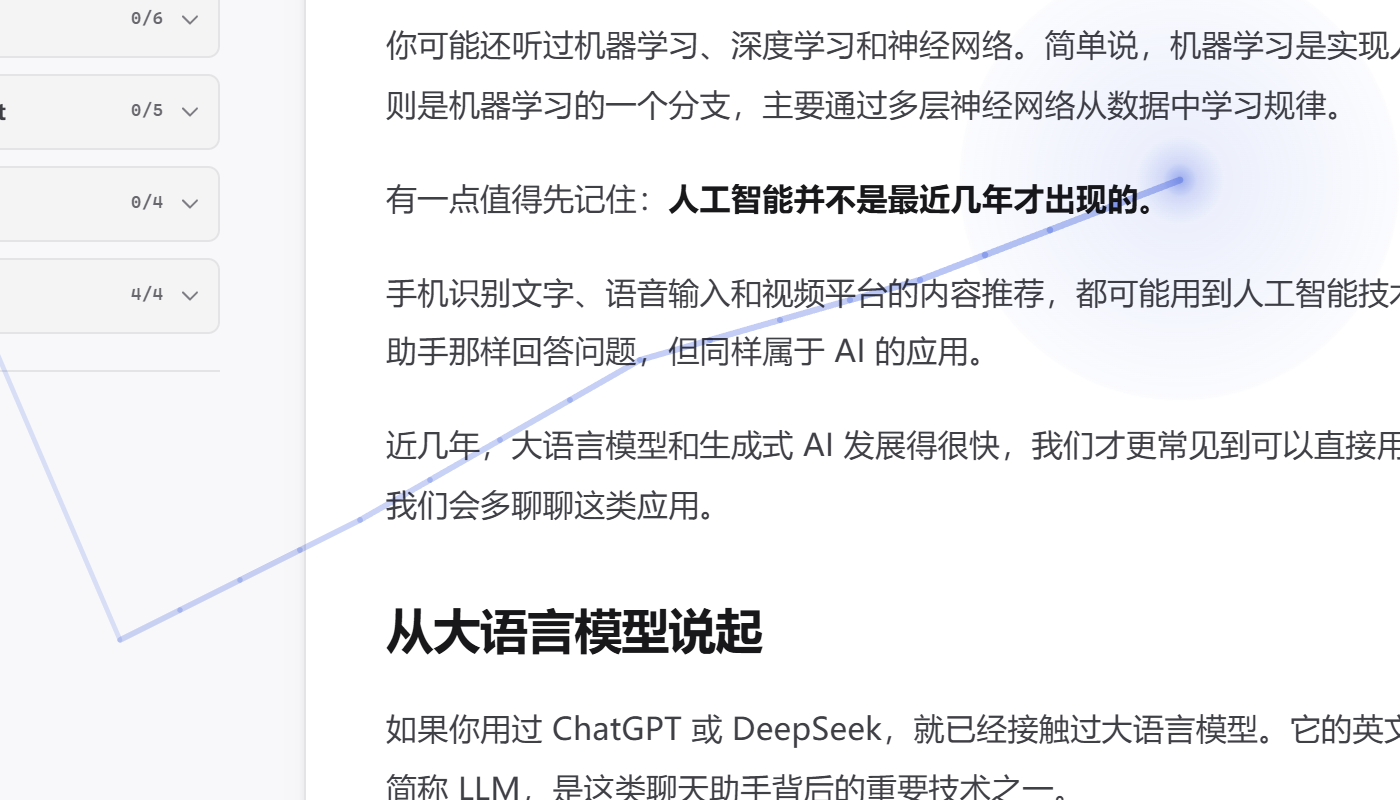
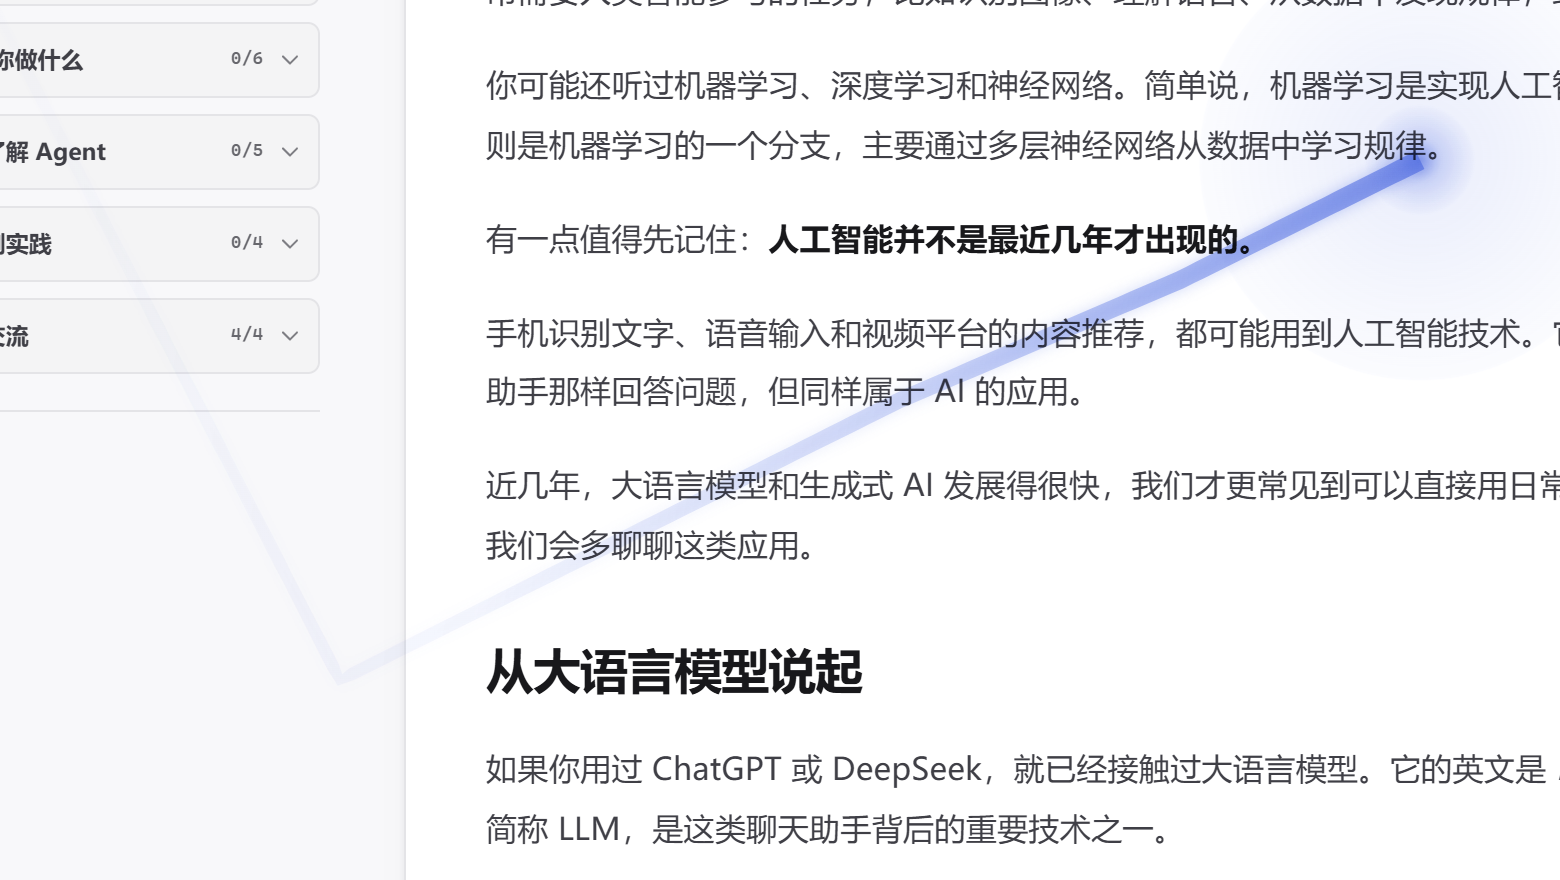
feat(glow): 拖尾加长加粗，改成渐变宽带加外发光
按反馈「长拖尾，太细了」调整：
- 存活 420ms → 780ms，采样上限 64 → 160，按约 8px 插值补点，快扫不再是一串珠子
- 逐段描线改成一次性 fill 的渐变宽带：尾部约 1px、头部约 11.6px
- 宽带下面再糊一层 7px 模糊当外发光，深色主题浓度乘 1.3
- 截图与文档参数同步更新；verify 49 项与 59/59 browser 全过

diff --git a/src/scripts/cursor-trail.ts b/src/scripts/cursor-trail.ts
@@ -15,12 +15,12 @@ import { trailEnabled, TRAIL_CHANGE } from './glow-pref';
 
 type Point = { x: number; y: number; t: number };
 
-/** 尾迹存活时间（ms） */
-const AGE = 420;
+/** 尾迹存活时间（ms）：拖得越长，划过之后那条「流星」留得越久 */
+const AGE = 780;
 /** 采样上限，避免长距离甩动时点数无限增长 */
-const MAX_POINTS = 64;
+const MAX_POINTS = 160;
 /** 小于这个距离的移动只更新头部时间，不新增采样点 */
-const MIN_STEP = 1.5;
+const MIN_STEP = 1.2;
 
 const canvas = document.querySelector<HTMLCanvasElement>('[data-cursor-trail]');
 if (canvas) {
@@ -73,34 +73,76 @@ if (canvas) {
 
     ctx.clearRect(0, 0, width, height);
     const rgb = tint();
-    ctx.lineCap = 'round';
-    ctx.lineJoin = 'round';
 
-    // 尾迹：越靠近头部越亮、越粗，越靠尾部越淡、越细
-    for (let i = 1; i < points.length; i++) {
-      const from = points[i - 1];
-      const to = points[i];
-      const life = 1 - (now - to.t) / AGE;
-      if (life <= 0) continue;
-      const alpha = Math.pow(life, 1.6) * 0.62;
-      ctx.strokeStyle = 'rgba(' + rgb + ', ' + alpha.toFixed(3) + ')';
-      ctx.lineWidth = 0.9 + 3.1 * life;
+    // 尾迹画成一条「渐变宽度的带」，而不是逐段描线：
+    // 逐段 stroke 时相邻线段的圆头会互相叠加，尾巴上会出现一串珠子；
+    // 一次 fill 出来的带子才是连续、平滑、越靠近头越粗的流星。
+    const life = (index: number): number => {
+      const point = points[index];
+      return Math.max(0, 1 - (now - point.t) / AGE);
+    };
+    const halfWidth = (index: number): number => (1 + 10.6 * Math.pow(life(index), 1.6)) / 2;
+
+    if (points.length > 1) {
+      const left: Point[] = [];
+      const right: Point[] = [];
+      for (let i = 0; i < points.length; i++) {
+        const prev = points[Math.max(0, i - 1)];
+        const next = points[Math.min(points.length - 1, i + 1)];
+        const dx = next.x - prev.x;
+        const dy = next.y - prev.y;
+        const length = Math.hypot(dx, dy) || 1;
+        // 法线方向：把宽度摊在轨迹两侧
+        const nx = (-dy / length) * halfWidth(i);
+        const ny = (dx / length) * halfWidth(i);
+        left.push({ x: points[i].x + nx, y: points[i].y + ny, t: points[i].t });
+        right.push({ x: points[i].x - nx, y: points[i].y - ny, t: points[i].t });
+      }
+
+      const tail = points[0];
+      const head = points[points.length - 1];
+      const ribbon = ctx.createLinearGradient(tail.x, tail.y, head.x, head.y);
+      // 尾巴彻底透明、越靠头越实：远看只有后半截亮着，才像一颗掠过的流星。
+      // 深色底上 screen 混合看起来会淡一档，浓度乘 1.3 补回来。
+      const strength = root.dataset.theme === 'dark' ? 1.3 : 1;
+      const stop = (at: number, alpha: number): void => {
+        ribbon.addColorStop(at, 'rgba(' + rgb + ', ' + (alpha * strength).toFixed(3) + ')');
+      };
+      stop(0, 0);
+      stop(0.45, 0.05);
+      stop(0.7, 0.24);
+      stop(0.88, 0.46);
+      stop(1, 0.62);
+
       ctx.beginPath();
-      ctx.moveTo(from.x, from.y);
-      ctx.lineTo(to.x, to.y);
-      ctx.stroke();
+      ctx.moveTo(left[0].x, left[0].y);
+      for (let i = 1; i < left.length; i++) ctx.lineTo(left[i].x, left[i].y);
+      for (let i = right.length - 1; i >= 0; i--) ctx.lineTo(right[i].x, right[i].y);
+      ctx.closePath();
+
+      // 先糊一层同样的形状当外发光，再叠清晰的那一条：
+      // 单靠一条实心带子会读成「画上去的线」，外面有一圈晕才像光
+      ctx.save();
+      ctx.filter = 'blur(7px)';
+      ctx.globalAlpha = 0.6;
+      ctx.fillStyle = ribbon;
+      ctx.fill();
+      ctx.restore();
+
+      ctx.fillStyle = ribbon;
+      ctx.fill();
     }
 
     // 头部亮核：一小团径向光，让尾迹有个「星」的头
     const head = points[points.length - 1];
     const headLife = Math.max(0, 1 - (now - head.t) / AGE);
-    const core = ctx.createRadialGradient(head.x, head.y, 0, head.x, head.y, 22);
-    core.addColorStop(0, 'rgba(' + rgb + ', ' + (0.62 * headLife).toFixed(3) + ')');
-    core.addColorStop(0.4, 'rgba(' + rgb + ', ' + (0.2 * headLife).toFixed(3) + ')');
+    const core = ctx.createRadialGradient(head.x, head.y, 0, head.x, head.y, 28);
+    core.addColorStop(0, 'rgba(' + rgb + ', ' + (0.66 * headLife).toFixed(3) + ')');
+    core.addColorStop(0.38, 'rgba(' + rgb + ', ' + (0.24 * headLife).toFixed(3) + ')');
     core.addColorStop(1, 'rgba(' + rgb + ', 0)');
     ctx.fillStyle = core;
     ctx.beginPath();
-    ctx.arc(head.x, head.y, 22, 0, Math.PI * 2);
+    ctx.arc(head.x, head.y, 28, 0, Math.PI * 2);
     ctx.fill();
 
     canvas.dataset.active = 'true';
@@ -121,11 +163,28 @@ if (canvas) {
       if (event.pointerType !== 'mouse' || !enabled()) return;
       const now = performance.now();
       const last = points[points.length - 1];
-      if (last && Math.hypot(event.clientX - last.x, event.clientY - last.y) < MIN_STEP) {
-        last.t = now;
-      } else {
+      if (!last) {
         points.push({ x: event.clientX, y: event.clientY, t: now });
-        if (points.length > MAX_POINTS) points.shift();
+      } else {
+        const dx = event.clientX - last.x;
+        const dy = event.clientY - last.y;
+        const distance = Math.hypot(dx, dy);
+        if (distance < MIN_STEP) {
+          last.t = now;
+        } else {
+          // 浏览器给的是离散采样：一步跨得太远就直接连线会看到一串「珠子」。
+          // 按约 8px 一段插值补点，尾迹才是一条连续、渐细的流星。
+          const steps = Math.min(24, Math.max(1, Math.ceil(distance / 8)));
+          for (let i = 1; i <= steps; i++) {
+            const ratio = i / steps;
+            points.push({
+              x: last.x + dx * ratio,
+              y: last.y + dy * ratio,
+              t: now - (steps - i) * 4,
+            });
+          }
+          if (points.length > MAX_POINTS) points.splice(0, points.length - MAX_POINTS);
+        }
       }
       schedule();
     },

diff --git a/docs/DESIGN-SYSTEM.md b/docs/DESIGN-SYSTEM.md
@@ -174,8 +174,8 @@
 | 首页引导图节点光效汇聚 | 与顶部导航同一套配方（共用 `hover-glow.css` 的 `--glow-tint` 与 `.hover-glow`），但按卡片形状改用 inset 变体：光只在卡片内部铺开（宽 38% 的椭圆，指向指针所在的一侧），不外溢成胶囊，同时把卡片描边软化、加一层浅蓝投影；离开卡片即熄灭并交还全站光晕；减少动效与触屏下不启用 |
 | 页头控件与站内按钮光效汇聚 | 搜索框、主题键、GitHub 键、首屏「开始学习」，以及站内同类控件（正文 `.btn` 整排按钮、筛选片、清除筛选、复制键、场景换卡、对话框关闭键、主题面板控件、侧栏搜索框、工具卡 / 术语卡 / 侧栏分支行、学习指南侧栏的分组标题与条目）共用同一束光：光铺在控件自身的圆角内（inset 变体，宽 38%），亮心跟着指针左右移动，外部再溢出一圈柔光；亮起时撤掉全站光晕，键盘 Tab 到控件上同样点亮（亮心居中），同时只亮一枚。除页头这几枚手写标记外，其余由 `ui-glow.ts` 按选择器自动接管，新增按钮不用再写一遍光层标记。品牌色实心底（主按钮、按下态的筛选片）改用掺白掠光并锁住 hover 底色，否则深蓝底上的淡蓝只会读成「按钮变深」；取色色块（会盖掉正在看的颜色）、正文里的步骤与测验选项（属于内容而非行动入口）、导航链接（已由 nav-glow 负责）刻意不给光。列表卡片是一团跟着指针走的柔光晕（132px 半径的圆 + 8px 模糊，中心跟着指针的横纵坐标，边缘完全淡出），只有指着的那一片亮，同时把这张卡的描边接力点亮成品牌蓝并带一点外发光；侧栏搜索框的输入框自带底色，光层必须抬到输入框之上（`z-index: 1`）并把浓度压到通用 inset 的一半，否则光被挡住、或者反面把整条输入框染蓝；减少动效与触屏下不启用 |
 | 鼠标光效总开关 | 主题面板底部一行「鼠标光效」（原生按钮 + `role="switch"`，轨道开态用 `--brand` 实底、关态用中性灰，140ms 过渡，减少动效下不过渡）。关掉后四条光效链路一起停：全站指针光晕、顶部导航光效汇聚、页头控件与站内按钮 / 搜索框 / 列表卡片、首页 Hero 点阵光；dock 放大这类非光效动效保留。偏好存 `localStorage['cdu-ai-glow']`，首屏由 BaseLayout 的内联脚本先写 `<html data-glow>`，刷新后不会先闪一下光 |
-| 光效拖尾（流星尾迹） | 指针划过时，最近 420ms 的轨迹连成一条由细到粗、由淡到亮的蓝色流星：尾迹按时间衰减，头部再叠一颗 22px 的径向亮核；指针停下后尾迹自然淡完，帧循环随之停下，空闲时不占 CPU。浅色主题 `multiply`、深色主题 `screen`；整站只有一张全屏 canvas，不拦截事件、不改光标；触屏、减少动效、打印与开关关闭时整层 `display: none` |
-| 光效拖尾开关 | 与「鼠标光效」并排放在主题面板底部（同一个开关组：上面「跟随指针的柔光」，下面「指针划过的流星尾迹」）。偏好独立存 `localStorage['cdu-ai-trail']`，首屏由 BaseLayout 的内联脚本写 `<html data-trail>`；两个开关互不牵连——关掉光晕仍可只留尾迹，反之亦然。拖尾参数（存活 420ms、采样上限 64、最小步长 1.5px）在 `cursor-trail.ts` |
+| 光效拖尾（流星尾迹） | 指针划过时，最近 780ms 的轨迹连成一条由细到粗、由淡到亮的蓝色流星：尾迹画成一条「渐变宽度的带」（尾部约 1px、头部约 11.6px，外面再糊一层 7px 模糊当外发光），越靠头越亮，头部再叠一颗 28px 的径向亮核；相邻采样点按约 8px 插值补点，避免大手一挥时出现一串珠子。指针停下后尾迹自然淡完，帧循环随之停下，空闲时不占 CPU。浅色主题 `multiply`（深色再乘 1.3 浓度）、深色主题 `screen`；整站只有一张全屏 canvas，不拦截事件、不改光标；触屏、减少动效、打印与开关关闭时整层 `display: none` |
+| 光效拖尾开关 | 与「鼠标光效」并排放在主题面板底部（同一个开关组：上面「跟随指针的柔光」，下面「指针划过的流星尾迹」）。偏好独立存 `localStorage['cdu-ai-trail']`，首屏由 BaseLayout 的内联脚本写 `<html data-trail>`；两个开关互不牵连——关掉光晕仍可只留尾迹，反之亦然。拖尾参数（存活 780ms、采样上限 160、最小步长 1.2px、插值间距 8px）在 `cursor-trail.ts` |
 | 首页应用叠卡 | 手动换卡时过渡位置与角度，不自动轮播；减少动效下关闭过渡与前卡倾斜，仍可用按钮换卡 |
 | 首页探索菜单 | 悬停 / 聚焦时按上下边缘揭开横幅并横向流动；触屏、减少动效和无 JS 保持静态链接 |
 | 首页图书馆线稿 | 原生 SVG 坐标重投影，拖动与入口联动使用有限时长过渡。减少动效时直接更新姿态，线条颜色跟随主题 |

diff --git a/docs/DESIGN-REVIEW.md b/docs/DESIGN-REVIEW.md
@@ -328,7 +328,8 @@
 - 反馈：「修复失效的光效，同时加入光效拖尾功能，像流星一样，再单独设置一个开关和光效开关放一起」。
 - 先查「失效」：把同一套悬停探针跑遍 `/`、`/guide/`、`/guide/first-agent/`、`/glossary/`、`/tools/`、`/works/`。四条老链路（指针光晕 / 导航汇聚 / 按钮与卡片 / Hero 点阵）都还在；真正缺光的是上游这轮重构新长出来的入口——指南页头的「建议修改」、图片灯箱的缩放与关闭键（`.image-lightbox__btn`）、图片上的「点击放大」（`.guide-image-zoom`）、手机工具详情抽屉的关闭键（`.tool-sheet__close`）、术语侧栏的分支展开收起键（`.branch-row__toggle`）。这五个选择器进 `ui-glow.ts` 的 `AUTO_HOSTS` 就补齐了，页头那几枚仍然手写标记。
 - 灯箱相关的三个只在正文真的有 `<img>` 时才生成：当前内容还没有配图，所以测试只断言既有控件是否接光；灯箱与「点击放大」交给 `ui-glow` 的 MutationObserver（对话框和按钮都是后挂到 body 的），有图之后自动接线。
-- 拖尾实现：新增 `CursorTrail.astro` + `scripts/cursor-trail.ts` + `styles/cursor-trail.css`，一张 `position: fixed` 的全屏 canvas。采样点保留 420ms（上限 64 个；间距 <1.5px 只更新头部时间），每帧从旧到新画渐细渐亮的圆头线段（宽度 0.9→4px，透明度 `life^1.6 × 0.62`），头部再叠一颗 22px 的径向亮核；采样点全过期后擦掉画布并停掉 rAF，空闲时零开销。
+- 拖尾实现：新增 `CursorTrail.astro` + `scripts/cursor-trail.ts` + `styles/cursor-trail.css`，一张 `position: fixed` 的全屏 canvas。采样点保留 780ms（上限 160 个；间距 <1.2px 只更新头部时间），相邻采样点按约 8px 插值补点，画成一条「渐变宽度的带」（尾部约 1px、头部约 11.6px，外加一层 7px 模糊的外发光），沿轴向从透明渐亮到 0.62，头部再叠一颗 28px 的径向亮核；采样点全过期后擦掉画布并停掉 rAF，空闲时零开销。
+- 第一版按 0.9→4px 的逐段描线做，被指出「太细、拖尾太短」：把存活从 420ms 提到 780ms、宽度提到 1→11.6px，并补上外发光。逐段 stroke 时相邻圆头会互相叠加，尾巴上会出现一串珠子，所以改成一次性 `fill` 的变宽带子；另外浏览器给的是离散采样，一步跨 100px 时连线是一段段折线，按 8px 插值后才顺。
 - 分层与光晕一致：浅色 `multiply`、深色 `screen`，白底上读成「染出来的蓝」、黑底上读成「发出来的光」，正文对比度不受影响；canvas 不接收事件、`aria-hidden`，减少动效 / 触屏 / 打印 / 开关关闭时整层 `display: none`。
 - 独立开关：`glow-pref.ts` 扩成两个偏好（`cdu-ai-glow` / `cdu-ai-trail`）与两个事件（`cdu:glow-change` / `cdu:trail-change`）；`BaseLayout` 的首屏脚本同时写 `<html data-glow>` / `data-trail`；面板里两个 `role="switch"` 排进同一个 `.theme-panel__switches` 组（上面「鼠标光效 · 跟随指针的柔光」，下面「光效拖尾 · 指针划过的流星尾迹」）。两个开关互不牵连：关掉光晕仍可只留尾迹。
 - 踩坑：第一版在 `draw()` 里写「少于 2 个点就清空」，而 Playwright 的 `mouse.move({ steps })` 一步一帧，快扫时每帧只有 1 个新点，于是每帧都把仅有的点清掉，尾迹永远起不来——手动画弧线却能看到，只靠肉眼很容易误判成「脚本没加载」。改成「只剩一个点也画头部亮核，只有点过期才清空」后正常。
